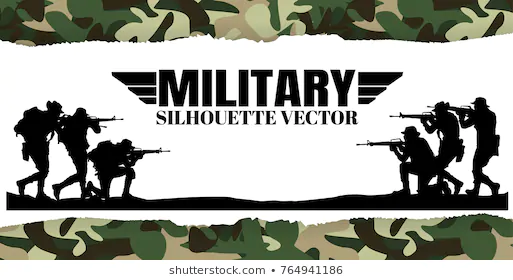
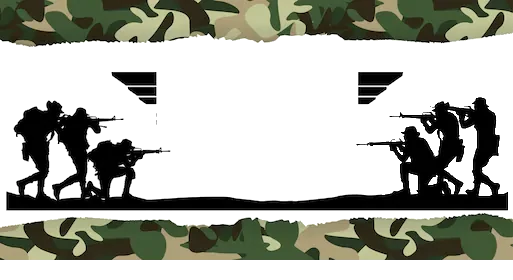
edicion y modificacion a la imagen de cabecera

diff --git a/index.html b/index.html
@@ -10,19 +10,19 @@
 <body>
     <div class="fondo">
         <h1 >
-            Global Army Force
+            
         </h1>
     </div>
     <br>
     <div>        
         <h1>
-            G.A.F
+            
         </h1>
     </div>
     <br>
     <div id="navegador">
         <ul class="tabs">
-            <li><a href="#Home">Home</a></li>
+            <li><a href="../arma3/index.html">Home</a></li>
             <li><a href="#Reglas">Reglas</a></li>
             <li><a href="#Jerarquias">Jerarquias</a></li>
             <li><a href="#Cursos">Especialidades y Cursos</a></li>
@@ -43,12 +43,12 @@
                 y externos de la región, con la finalidad de mantener los países seguros 
                 y en un creciente desarrollo. Y así mismo conformando alianzas y realizando 
                 maniobras conjuntas con personal de la OTAN.<br>
-                El clan fue formado por un grupo de amigos que poseen experiencia en el <span>Arma 3</span>; 
+                El clan fue formado por un grupo de amigos que poseen experiencia en el <span class="enlace"><a href="https://store.steampowered.com/app/107410/Arma_3/">Arma 3</a></span>; 
                 con ganas de divertirse y seguir aprendiendo nuevas técnicas, disfrutando del 
-                <span>milsim</span> en el cual se basan las operaciones a realizar.<br>
+                <span class="enlace"><a href="https://en.wikipedia.org/wiki/MilSim">milsim</a></span> en el cual se basan las operaciones a realizar.<br>
                 Excelente compañerismo, sentido de pertenencia y trabajo en equipo, dispuesto 
                 a enseñar, aprender y compartir nuestros conocimientos y experiencias con los 
-                que integren en <span>G.A.F.</span>
+                que integren en <span class="enlace"><a href="">G.A.F.</a></span>
                 
 
             </p>

diff --git a/css/style.css b/css/style.css
@@ -31,11 +31,12 @@ html, body {
 
 }
 
-h1,h3,p{
+h3,p{
     font-family: "Traveling _Typewriter";
 }
- h1,h3{
+ h3{
      text-align: center;
+     font-size: 30px;
  }
 
  p{
@@ -48,7 +49,11 @@ h1,h3,p{
  .sobre{
      margin-left: 25%;
      text-align: center;
-     width: 50%;     
+     width: 50%;   
+ }
+
+ .sobre a{
+     text-decoration: none;
  }
 
  .intro,.subintro{
@@ -89,7 +94,7 @@ h1,h3,p{
     padding: 3px 7px 3px 7px;
     color: white;
     background-color: #8a8585;
-    border: 1px solid #ccc;
+    border: 1px solid #000000;
     text-decoration: none;
  }
 
@@ -110,11 +115,15 @@ h1,h3,p{
   }
 
   .fondo{
-      background-image: url(../image/military-vector-illustration-army-soldiers.webp);
+      background-image: url(../image/cabecera.png);
       background-color: transparent;
       background-size: 100% 100%;
       height: 500px;
-      margin: 15px;     
+      width: 75%;
+      display: block;
+      margin: auto;
+      border-radius: 10%;
+
   }
 
   body{
